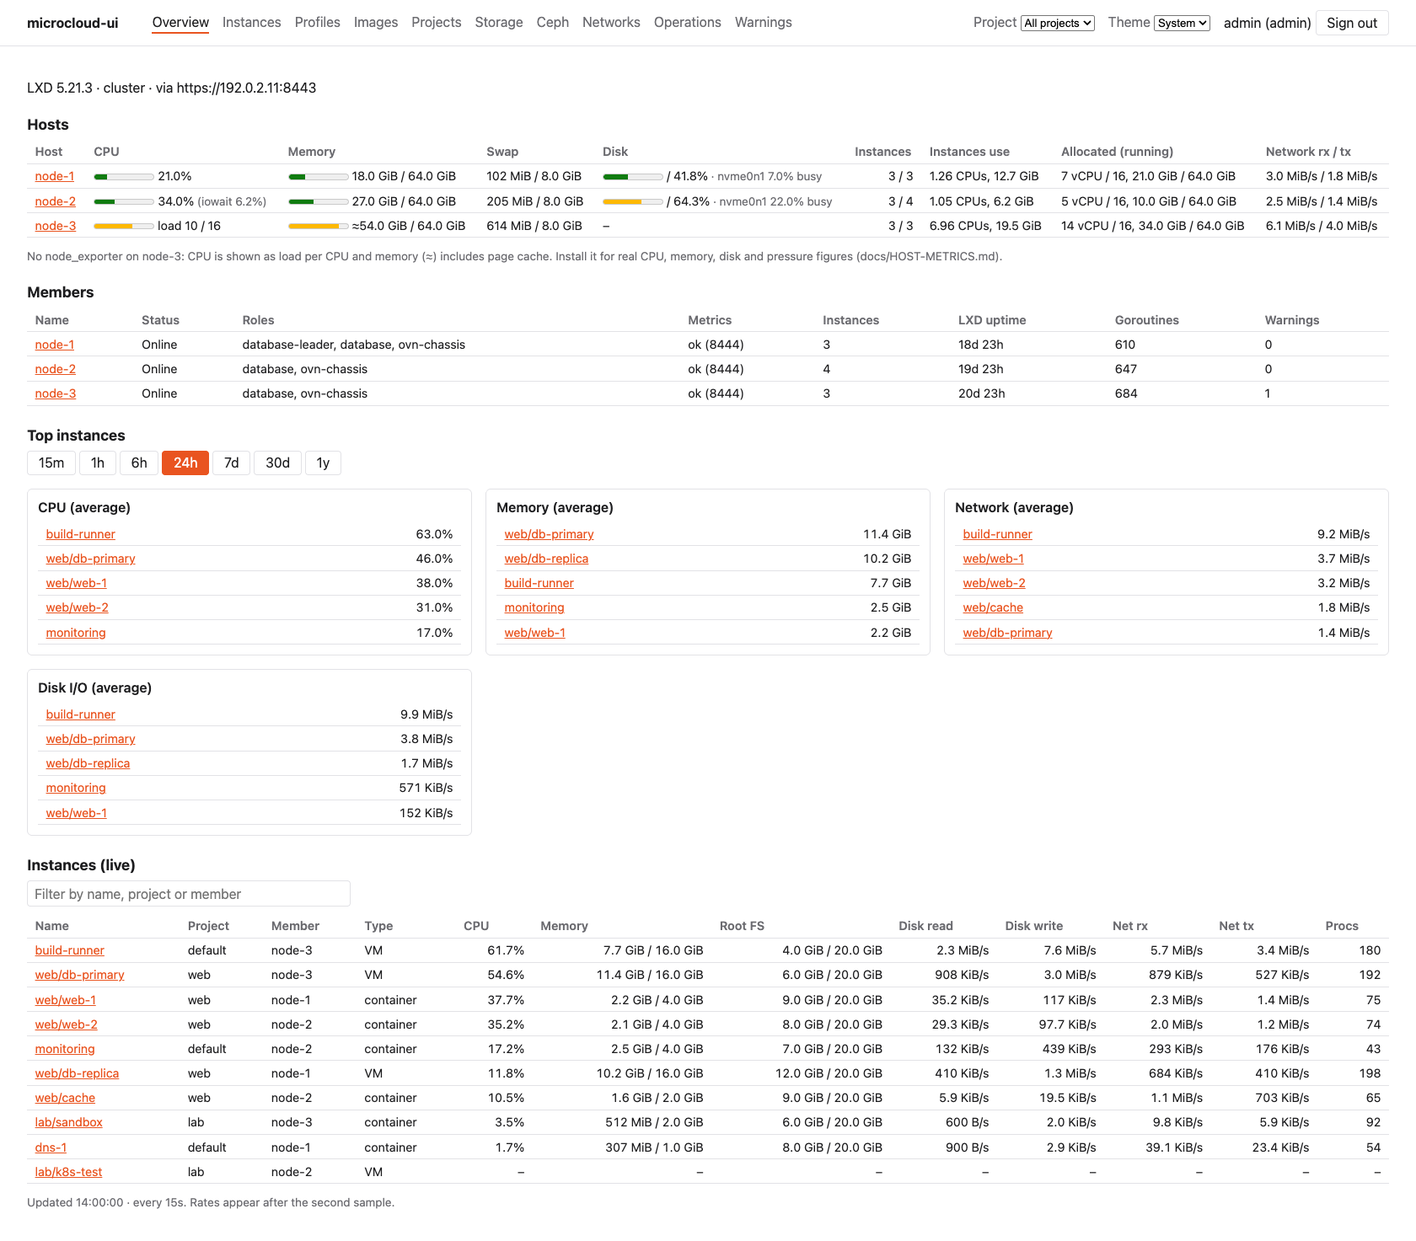
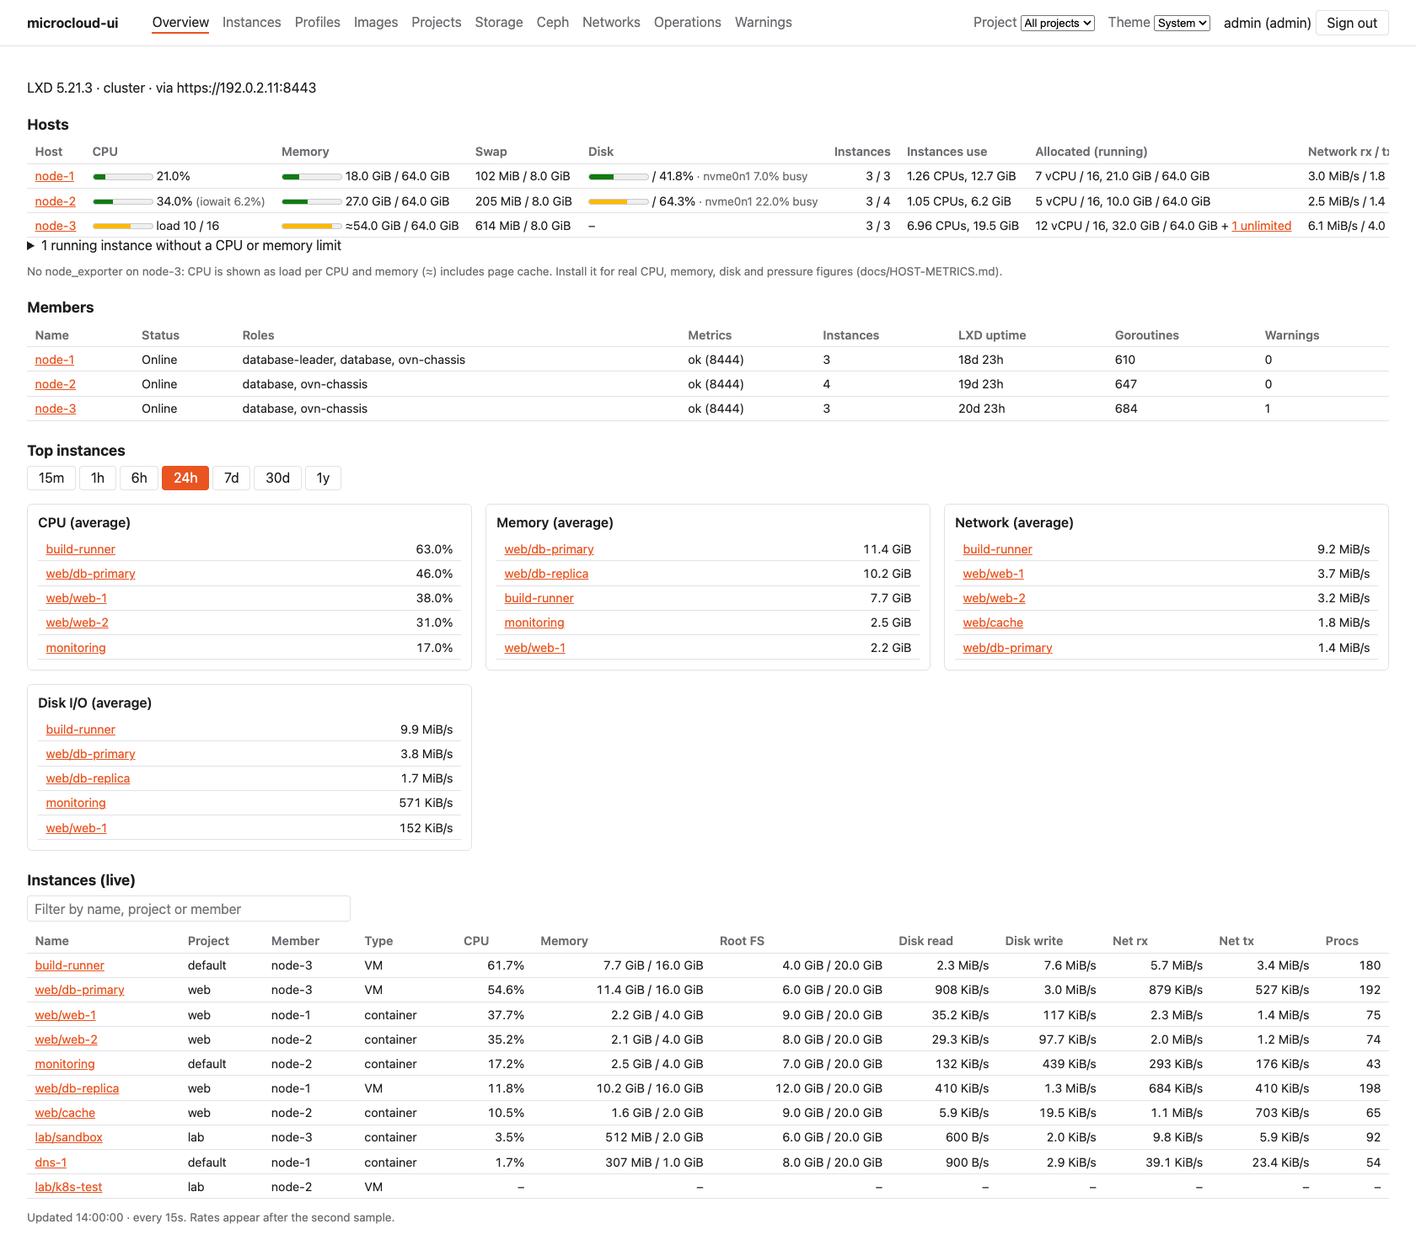
Hosts: list running instances without CPU/memory limits, opened from a host's 'N unlimited', with links to set them (D61); de-flake project edit test

diff --git a/frontend/src/pages/Hosts.tsx b/frontend/src/pages/Hosts.tsx
@@ -1,3 +1,4 @@
+import { useRef, useState } from "react";
 import { Link } from "react-router";
 import { fetchHosts, type Host } from "../api";
 import { formatBytes, formatNumber, formatPercent, formatRate } from "../format";
@@ -80,19 +81,26 @@ function Disk({ h }: { h: Host }) {
   );
 }
 
-function Allocated({ h }: { h: Host }) {
+function Allocated({ h, onUnlimited }: { h: Host; onUnlimited: (host: string) => void }) {
   const ratio = h.cpus ? h.allocated_cpus / h.cpus : null;
   return (
     <>
       {h.allocated_cpus} vCPU{h.cpus ? ` / ${h.cpus}` : ""}
       {ratio != null && ratio > 1 && <strong> ({ratio.toFixed(1)}×)</strong>}, {formatBytes(h.allocated_memory)}
       {h.memory_total ? ` / ${formatBytes(h.memory_total)}` : ""}
-      {h.unlimited > 0 && <span className="muted"> + {h.unlimited} unlimited</span>}
+      {h.unlimited > 0 && (
+        <>
+          {" + "}
+          <button type="button" className="link" onClick={() => onUnlimited(h.name)}>
+            {h.unlimited} unlimited
+          </button>
+        </>
+      )}
     </>
   );
 }
 
-export function HostsTable({ hosts }: { hosts: Host[] }) {
+export function HostsTable({ hosts, onUnlimited }: { hosts: Host[]; onUnlimited: (host: string) => void }) {
   return (
     <div className="scroll">
       <table>
@@ -135,7 +143,7 @@ export function HostsTable({ hosts }: { hosts: Host[] }) {
                 {formatNumber(h.instances_cpu)} CPUs, {formatBytes(h.instances_memory)}
               </td>
               <td>
-                <Allocated h={h} />
+                <Allocated h={h} onUnlimited={onUnlimited} />
               </td>
               <td>
                 {formatRate(h.net_rx_bps)} / {formatRate(h.net_tx_bps)}
@@ -145,6 +153,65 @@ export function HostsTable({ hosts }: { hosts: Host[] }) {
         </tbody>
       </table>
     </div>
+  );
+}
+
+const MISSING = { cpu: "CPU", memory: "memory" } as const;
+
+/** Running instances with no CPU and/or memory limit, each a link to where limits are set. */
+function Unlimited({ hosts, host, open, onToggle }: { hosts: Host[]; host: string | null; open: boolean; onToggle: (open: boolean, host?: string | null) => void }) {
+  const rows = hosts.flatMap((h) => h.unlimited_instances.map((i) => ({ ...i, host: h.name })));
+  if (rows.length === 0) return null;
+  const shown = host ? rows.filter((r) => r.host === host) : rows;
+  return (
+    <details open={open} onToggle={(e) => onToggle(e.currentTarget.open)}>
+      <summary>
+        {rows.length} running instance{rows.length === 1 ? "" : "s"} without a CPU or memory limit
+        {host && open && <> (on {host})</>}
+      </summary>
+      <p className="muted">
+        These can use all of their host&apos;s CPUs or memory, so they aren&apos;t counted in Allocated. Set limits on
+        the instance, or on a profile it uses.
+      </p>
+      <div className="scroll">
+        <table>
+          <thead>
+            <tr>
+              <th>Instance</th>
+              <th>Project</th>
+              <th>Host</th>
+              <th>No limit on</th>
+              <th />
+            </tr>
+          </thead>
+          <tbody>
+            {shown.map((r) => {
+              const to = `/instances/${encodeURIComponent(r.project)}/${encodeURIComponent(r.name)}`;
+              return (
+                <tr key={`${r.project}/${r.name}`}>
+                  <td>
+                    <Link to={to}>{r.name}</Link>
+                  </td>
+                  <td>{r.project}</td>
+                  <td>{r.host}</td>
+                  <td>{r.missing.map((m) => MISSING[m]).join(", ")}</td>
+                  <td>
+                    <Link to={`${to}?tab=config`} aria-label={`Set limits on ${r.name}`}>
+                      Set limits
+                    </Link>
+                  </td>
+                </tr>
+              );
+            })}
+          </tbody>
+        </table>
+      </div>
+      {host && shown.length < rows.length && (
+        <button type="button" className="link" onClick={() => onToggle(true, null)}>
+          Show all hosts
+        </button>
+      )}
+    </details>
   );
 }
 
@@ -177,6 +244,12 @@ function NodeNote({ hosts, enabled }: { hosts: Host[]; enabled: boolean }) {
 
 export default function HostsSection() {
   const { data, error } = useApi("hosts", fetchHosts, REFRESH_MS);
+  const [unlimited, setUnlimited] = useState<{ open: boolean; host: string | null }>({ open: false, host: null });
+  const list = useRef<HTMLDivElement>(null);
+  const showUnlimited = (host: string) => {
+    setUnlimited({ open: true, host });
+    requestAnimationFrame(() => list.current?.scrollIntoView?.({ block: "nearest" }));
+  };
   return (
     <section aria-label="Hosts">
       <h2>Hosts</h2>
@@ -184,7 +257,15 @@ export default function HostsSection() {
       {!data && !error && <p role="status">Loading hosts…</p>}
       {data && (
         <>
-          <HostsTable hosts={data.hosts} />
+          <HostsTable hosts={data.hosts} onUnlimited={showUnlimited} />
+          <div ref={list}>
+            <Unlimited
+              hosts={data.hosts}
+              host={unlimited.host}
+              open={unlimited.open}
+              onToggle={(open, host = open ? unlimited.host : null) => setUnlimited({ open, host })}
+            />
+          </div>
           <NodeNote hosts={data.hosts} enabled={data.node_exporter} />
         </>
       )}

diff --git a/frontend/src/pages/hosts.test.tsx b/frontend/src/pages/hosts.test.tsx
@@ -1,4 +1,4 @@
-import { screen, within } from "@testing-library/react";
+import { fireEvent, screen, within } from "@testing-library/react";
 import { afterEach, beforeEach, describe, expect, it, vi } from "vitest";
 import * as api from "../api";
 import { cpuModeSeries, usedPercentSeries } from "../chart/panel";
@@ -59,6 +59,7 @@ const host = (over: Partial<api.Host> = {}): api.Host => ({
   allocated_cpus: 12,
   allocated_memory: 20 * GIB,
   unlimited: 2,
+  unlimited_instances: [],
   net_rx_bps: 1024,
   net_tx_bps: 2048,
   node: node(),
@@ -132,6 +133,57 @@ describe("HostsSection", () => {
     vi.spyOn(api, "fetchHosts").mockRejectedValue(new Error("LXD is not configured"));
     renderAt(<HostsSection />);
     expect(await screen.findByRole("alert")).toHaveTextContent("LXD is not configured");
+  });
+
+  it("lists instances without limits, opened from a host's count", async () => {
+    vi.spyOn(api, "fetchHosts").mockResolvedValue({
+      node_exporter: true,
+      hosts: [
+        host({
+          unlimited_instances: [
+            { project: "default", name: "c1", missing: ["cpu", "memory"] },
+            { project: "lab", name: "c2", missing: ["memory"] },
+          ],
+        }),
+        host({ name: "gw-2", unlimited: 1, unlimited_instances: [{ project: "lab", name: "c3", missing: ["cpu"] }] }),
+        host({ name: "gw-3", unlimited: 0 }),
+      ],
+    });
+    renderAt(<HostsSection />);
+    const gw3 = (await screen.findByRole("link", { name: "gw-3" })).closest("tr")!;
+    expect(within(gw3).queryByRole("button")).toBeNull();
+    const details = screen.getByText("3 running instances without a CPU or memory limit").closest("details")!;
+    expect(details.open).toBe(false);
+
+    const gw2 = screen.getByRole("link", { name: "gw-2" }).closest("tr")!;
+    fireEvent.click(within(gw2).getByRole("button", { name: "1 unlimited" }));
+    expect(details.open).toBe(true);
+    expect(details.querySelector("summary")).toHaveTextContent("(on gw-2)");
+    const list = within(details);
+    expect(list.getAllByRole("row")).toHaveLength(2); // heading + c3
+    const c3 = list.getByRole("link", { name: "c3" }).closest("tr")!;
+    expect(c3).toHaveTextContent("c3labgw-2CPU");
+    expect(list.getByRole("link", { name: "Set limits on c3" })).toHaveAttribute("href", "/instances/lab/c3?tab=config");
+
+    fireEvent.click(list.getByRole("button", { name: "Show all hosts" }));
+    expect(list.getAllByRole("row")).toHaveLength(4);
+    expect(list.getByRole("link", { name: "c2" }).closest("tr")).toHaveTextContent("c2labgw-1memory");
+    expect(list.getByRole("link", { name: "c1" }).closest("tr")).toHaveTextContent("CPU, memory");
+    expect(list.queryByRole("button", { name: "Show all hosts" })).toBeNull();
+
+    details.open = false; // closed from its summary
+    fireEvent(details, new Event("toggle"));
+    expect(details.open).toBe(false);
+    details.open = true;
+    fireEvent(details, new Event("toggle"));
+    expect(list.getAllByRole("row")).toHaveLength(4); // reopened by hand: every host
+  });
+
+  it("no list when every running instance has limits", async () => {
+    vi.spyOn(api, "fetchHosts").mockResolvedValue({ node_exporter: true, hosts: [host({ unlimited: 0 })] });
+    renderAt(<HostsSection />);
+    await screen.findByRole("link", { name: "gw-1" });
+    expect(screen.queryByText(/without a CPU or memory limit/)).toBeNull();
   });
 
   it("hostMemory without any data", () => {

diff --git a/frontend/screenshots/demo.ts b/frontend/screenshots/demo.ts
@@ -97,6 +97,10 @@ export const INSTANCES: Demo[] = [
   I("lab", "k8s-test", "virtual-machine", "node-2", 4, 8, 0, 0, 0, 0, "k3s experiments", "Stopped"),
 ];
 const running = INSTANCES.filter((i) => i.status === "Running");
+/** Set no limits (its cpus/memory are what it happens to use), so the Hosts table lists it. */
+const unlimited = (d: Demo) => d.project === "lab" && d.name === "sandbox";
+const limits = (d: Demo): Record<string, string> =>
+  unlimited(d) ? {} : { "limits.cpu": String(d.cpus), "limits.memory": `${d.memory / GIB}GiB` };
 
 export const SERVER: ServerInfo = {
   version: "5.21.3",
@@ -149,9 +153,9 @@ export function instanceFull(project: string, name: string): InstanceFull | unde
     ephemeral: false,
     stateful: false,
     profiles: ["default"],
-    config: { "limits.cpu": String(d.cpus), "limits.memory": `${d.memory / GIB}GiB`, "image.os": "Ubuntu", "image.release": "noble" },
+    config: { ...limits(d), "image.os": "Ubuntu", "image.release": "noble" },
     devices: {},
-    expanded_config: { "limits.cpu": String(d.cpus), "limits.memory": `${d.memory / GIB}GiB` },
+    expanded_config: limits(d),
     expanded_devices: { root: { type: "disk", path: "/", pool: "remote" }, eth0: { type: "nic", network: "default", name: "eth0" } },
     created_at: "2026-09-02T10:14:00Z",
     last_used_at: "2026-11-10T07:00:00Z",
@@ -300,6 +304,7 @@ export const HOSTS_VIEW: { node_exporter: boolean; hosts: Host[] } = {
   hosts: HOSTS.map((name, i): Host => {
     const mine = INSTANCES.filter((d) => d.member === name);
     const on = mine.filter((d) => d.status === "Running");
+    const capped = on.filter((d) => !unlimited(d));
     const memUsed = [18, 27, 41][i] * GIB;
     return {
       name,
@@ -318,9 +323,10 @@ export const HOSTS_VIEW: { node_exporter: boolean; hosts: Host[] } = {
       instances_running: on.length,
       instances_cpu: on.reduce((s, d) => s + (d.cpu / 100) * d.cpus, 0),
       instances_memory: on.reduce((s, d) => s + used(d), 0),
-      allocated_cpus: on.reduce((s, d) => s + d.cpus, 0),
-      allocated_memory: on.reduce((s, d) => s + d.memory, 0),
-      unlimited: 0,
+      allocated_cpus: capped.reduce((s, d) => s + d.cpus, 0),
+      allocated_memory: capped.reduce((s, d) => s + d.memory, 0),
+      unlimited: on.length - capped.length,
+      unlimited_instances: on.filter(unlimited).map((d) => ({ project: d.project, name: d.name, missing: ["cpu", "memory"] })),
       net_rx_bps: [3.1e6, 2.6e6, 6.4e6][i],
       net_tx_bps: [1.9e6, 1.5e6, 4.2e6][i],
       node:

diff --git a/frontend/src/pages/manage/manage.test.tsx b/frontend/src/pages/manage/manage.test.tsx
@@ -343,6 +343,7 @@ describe("projects", () => {
     fireEvent.change(screen.getByLabelText(/Config/), { target: { value: "a: {b: 1}" } });
     expect(screen.getByRole("button", { name: "Save" })).toBeDisabled();
     fireEvent.change(screen.getByLabelText(/Config/), { target: { value: "limits.instances: 9" } });
+    await waitFor(() => expect(screen.getByRole("button", { name: "Save" })).toBeEnabled()); // slow under a full run
     fireEvent.click(screen.getByRole("button", { name: "Save" }));
     expect(upd).toHaveBeenCalledWith("lab", { description: "Lab 2", config: { "limits.instances": "9" } });
     fireEvent.click(screen.getByRole("button", { name: "Rename" }));

diff --git a/frontend/src/api.ts b/frontend/src/api.ts
@@ -1099,6 +1099,8 @@ export interface Host {
   allocated_cpus: number;
   allocated_memory: number;
   unlimited: number;
+  /** Running instances with no CPU and/or memory limit (containers; VMs get LXD's defaults). */
+  unlimited_instances: { project: string; name: string; missing: ("cpu" | "memory")[] }[];
   net_rx_bps: number | null;
   net_tx_bps: number | null;
   node: NodeNow | null;

diff --git a/backend/mcui/api/hosts.py b/backend/mcui/api/hosts.py
@@ -120,12 +120,21 @@ async def hosts(_: SessionDep, services: ServicesDep) -> dict[str, Any]:
         mem_total = si.get("total_ram")
         mine = [i for i in insts or [] if single or i.get("location") == m.name]
         running = [i for i in mine if i.get("status") == "Running"]
-        cpus_alloc, mem_alloc, unlimited = 0, 0.0, 0
+        cpus_alloc, mem_alloc = 0, 0.0
+        unlimited: list[dict[str, Any]] = []
         for i in running:
             c, mem = allocation(i, mem_total)
             cpus_alloc += c or 0
             mem_alloc += mem or 0
-            unlimited += c is None or mem is None
+            if c is None or mem is None:  # so they can be found and given limits
+                missing = [k for k, v in (("cpu", c), ("memory", mem)) if v is None]
+                unlimited.append(
+                    {
+                        "project": i.get("project") or "default",
+                        "name": i["name"],
+                        "missing": missing,
+                    }
+                )
         cores = mem_used = 0.0
         for i in live.get("instances", []):
             if i["member"] != m.name:
@@ -154,7 +163,8 @@ async def hosts(_: SessionDep, services: ServicesDep) -> dict[str, Any]:
                 "instances_memory": mem_used,
                 "allocated_cpus": cpus_alloc,
                 "allocated_memory": mem_alloc,
-                "unlimited": unlimited,
+                "unlimited": len(unlimited),
+                "unlimited_instances": sorted(unlimited, key=lambda u: (u["project"], u["name"])),
                 "net_rx_bps": rx.get(m.name),
                 "net_tx_bps": tx.get(m.name),
                 "node": node.now(m.name) if node is not None else None,

diff --git a/backend/tests/test_hosts.py b/backend/tests/test_hosts.py
@@ -59,7 +59,7 @@ INSTANCES = [
     {"name": "v1", "location": "m1", "status": "Running", "type": "virtual-machine",
      "expanded_config": {}},
     {"name": "c3", "location": "m1", "status": "Running", "type": "container",
-     "expanded_config": {}},
+     "project": "lab", "expanded_config": {}},
     {"name": "off", "location": "m1", "status": "Stopped", "type": "container",
      "expanded_config": {"limits.cpu": "16"}},
     {"name": "c2", "location": "m2", "status": "Running", "type": "container",
@@ -143,6 +143,9 @@ async def test_hosts(services):
         assert m1["allocated_cpus"] == 3  # c1 2 + v1 default 1; c3 unlimited, "off" stopped
         assert m1["allocated_memory"] == 5 * GIB
         assert m1["unlimited"] == 1
+        assert m1["unlimited_instances"] == [
+            {"project": "lab", "name": "c3", "missing": ["cpu", "memory"]}
+        ]
         assert m1["net_rx_bps"] == pytest.approx(100) and m1["net_tx_bps"] is None
         assert m1["instances_cpu"] == 0 and m1["instances_memory"] > 0
         assert m1["node"]["ok"] and m1["node"]["memory_used"] == 16 * GIB
@@ -180,6 +183,9 @@ async def test_hosts_standalone_and_without_node_exporter(tmp_path):
     (h,) = body["hosts"]
     assert h["instances"] == 1 and h["node"] is None and h["cpus"] is None
     assert h["load1"] is None
+    assert h["unlimited_instances"] == [
+        {"project": "default", "name": "c1", "missing": ["cpu", "memory"]}
+    ]
 
 
 async def test_hosts_without_lxd(tmp_path):

diff --git a/agents.md b/agents.md
@@ -70,6 +70,7 @@ makes or alters a design decision.**
 | D57 | **OVN overview (MO-9) from the LXD API only:** `/api/ovn` lists OVN networks of `default` and of projects with `features.networks` (others borrow default's, which LXD reports again under their name), each with uplink, subnets/NAT, external router address (`volatile.network.ipv*.address`), active gateway chassis (from network state), forward/load-balancer/peer counts (`null` when LXD can't list them), ACLs and allocation counts by type; uplinks (managed physical) with gateway, routes, DNS, BGP peers and how many of `ipv4.ovn.ranges` router addresses are used. The page flags networks not Created, without a gateway chassis, and uplink ranges ≥ 80% used. No OVN northbound/southbound access (that's MO-11, Later) | Everything comes from LXD; no extra credentials or agents. | Accepted 2026-11-11 |
 | D58 | **Host metrics (MO-4, MO-12), brought forward from Phase 5:** an Overview **Hosts** table built from what LXD gives (member state: load, coarse memory, swap; instances: running/total, their CPU and memory use from live metrics; **allocated** vCPUs and memory of running instances from `limits.cpu` (count or pinned set) and `limits.memory` (size or % of host), VMs without limits counted at LXD's 1 vCPU/1 GiB, containers without limits counted as “unlimited”; host NIC rate from history), overlaid with **node_exporter** when a host has it (`/api/hosts`). The collector scrapes `<scheme>://<member host>:9100/metrics` with the LXD scrape (optional TLS with a pinned CA, `server_name`, basic auth from a 0600 password file) and stores only: CPU seconds **summed over CPUs per mode**, memory (total/available/free/cached/buffers/swap, ZFS ARC), filesystems except pseudo/snap mounts, whole host disks (not partitions, dm-*, md, rbd/nbd/zd, loop), pressure (cpu/memory/io waiting, memory/io stalled), oom-kill and swap-in/out counters, clock sync. A host with nothing listening is “not installed”, not an error; auth/TLS failures are errors in the job status and `mcui check` (warnings there, never a failure). CPU % = 100 − idle − iowait − steal (as for instances). Member page shows node graphs when present and LXD's memory estimate otherwise. Install/lock-down: `docs/HOST-METRICS.md` (TLS + basic auth via `--web.config.file`, bind to the management IP; no ufw or stock nftables.conf on MicroCloud hosts) | LXD has no host CPU %, disk or true memory figures; node_exporter is the standard way to get them and stays optional. | Accepted 2026-11-11 |
 | D59 | **Screenshots from an invented demo cluster:** `make screenshots` builds the SPA, serves it with `vite preview` and drives the installed Google Chrome (or `$CHROME_PATH`) through `playwright-core` 1.64.1 (Apache-2.0, dev only; no browser download). Every `/api/*` request is answered from `frontend/screenshots/demo.ts`: three hosts `node-1..3` on 192.0.2.0/24 and 2001:db8::/32, made-up instances/projects/pools/Ceph/OVN, and smooth deterministic metric history (fixed clock, UTC). The demo is typed against `src/api.ts`, and a test checks every metric the shown pages query has data, that unknown paths are refused and that only documentation/private addresses appear. Never screenshot a real cluster for the repo | Shareable, reproducible images with nothing about the owner's network; regenerate whenever the UI changes. | Accepted 2026-11-11 |
+| D61 | **Unlimited instances are listed, not just counted:** `/api/hosts` returns each host's running instances that lack `limits.cpu` and/or `limits.memory` in their expanded config (`unlimited_instances`: project, name, which limit is missing; VMs never appear, LXD gives them defaults). On the Overview, a host's "N unlimited" opens a list under the Hosts table filtered to that host ("Show all hosts" widens it); each row links to the instance and to its Configuration tab (`?tab=config`), where the limit fields are. Only running instances, matching Allocated | Unlimited containers can take a whole host and make Allocated understate it; the count alone didn't say which ones. Limits may equally go on a profile, which the note says. | Accepted 2026-11-12 |
 | D60 | **Theme switch (Light / Dark / System):** colours are CSS variables on `:root` (incl. `--series-0..7` for chart lines and `--ok`); dark values apply under `prefers-color-scheme: dark` unless `<html data-theme="light">`, or under `data-theme="dark"`. A top-bar select sets `data-theme` (none = System) and remembers it in `localStorage` (`mcui.theme`; storage blocked = this page only); it's applied in `main.tsx` before the first render. Charts read their colours from CSS when drawn and redraw when the shown theme changes (OS switch or user choice). Dark series colours are brighter variants of the light ones. Checked every screenshot page dark. **README screenshots are dark** (the owner's choice: it suits the Ubuntu orange), plus one light Overview; `make screenshots` produces exactly that set | Follows the OS by default; an explicit override for those who want one. | Accepted 2026-11-11 |
 | D21 | **Management cert is an unrestricted client cert or a fine-grained TLS identity with `server admin`**; restricted (project-confined) certs are unsupported for management. Metrics use a separate `--type=metrics` cert. Keys generated with `openssl ecparam` (LibreSSL-safe) | The app manages cluster-wide objects (pools, networks, members). See `docs/LXD-CREDENTIALS.md`. | Accepted 2026-11-05 |
 | D7 | **Scrape every cluster member individually** for `/1.0/metrics` (members discovered from `GET /1.0/cluster/members`) | LXD only returns metrics for instances on the member queried. Respect LXD's 8s metrics cache: default interval 15s, minimum 10s. | Proposed |
@@ -182,6 +183,7 @@ Statuses: *Proposed* → *Accepted* once the owner confirms; *Superseded by Dn* 
 - **Phase 4g (hosts): built 2026-11-11** at the owner's request, bringing node_exporter (MO-12) forward from Phase 5: Overview Hosts table, node_exporter scrape/history, member-page host graphs, `mcui check` section, `docs/HOST-METRICS.md` (D58). Live (plain http, the Ubuntu package as installed): all three hosts scraped, 42 series kept per host of ~3,300 (sda/sdb only; dm-*, rbd* and their partitions left out; `/`, `/boot`, `/boot/efi`); the zfs module reports 1,920 bytes of ARC with no pool, so ARC under 1 MiB is hidden; recorded fixtures in `recorded-node`. Owner checks: LIVE-TESTS H1–H4.
 - **README screenshots (2026-11-11):** `make screenshots` from the demo cluster (D59); `formatNumber` now prints whole numbers without decimals (Ceph object counts showed “2.00”).
 - **Theme switch (2026-11-11):** Light / Dark / System in the top bar; charts follow it; all pages checked dark (D60).
+- **Unlimited instances (2026-11-12):** the Hosts table's "N unlimited" opens a list of those instances with links to set limits (D61).
 - Next: **Phase 5** (metric store evaluation, alerts, export, quota history; node_exporter done in 4g) — awaiting the owner
   (incl. local-pool fixtures, see Known gaps).
 
